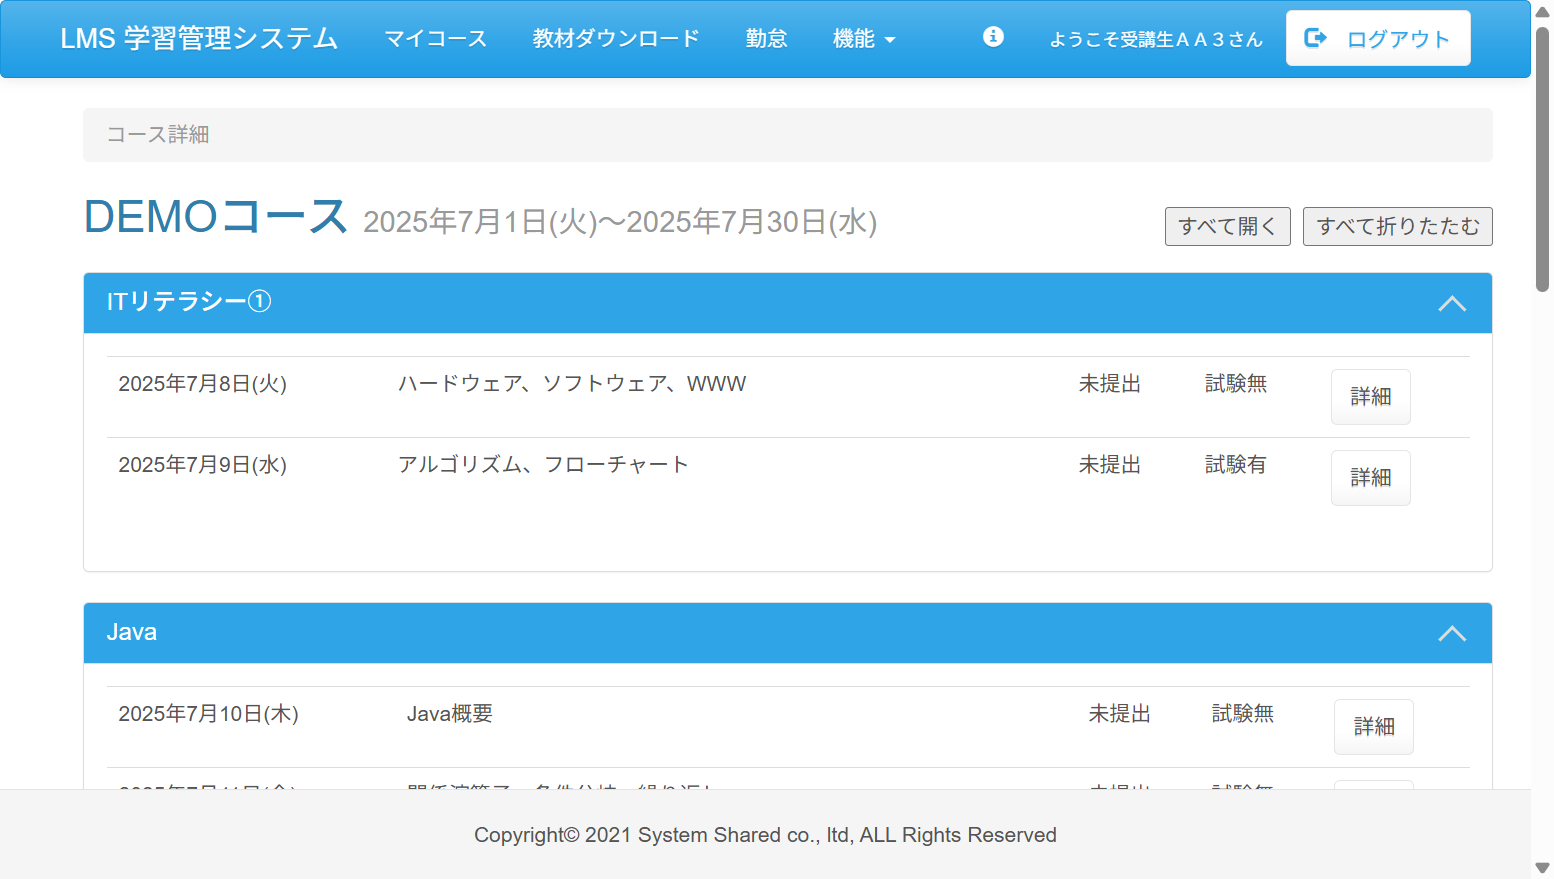
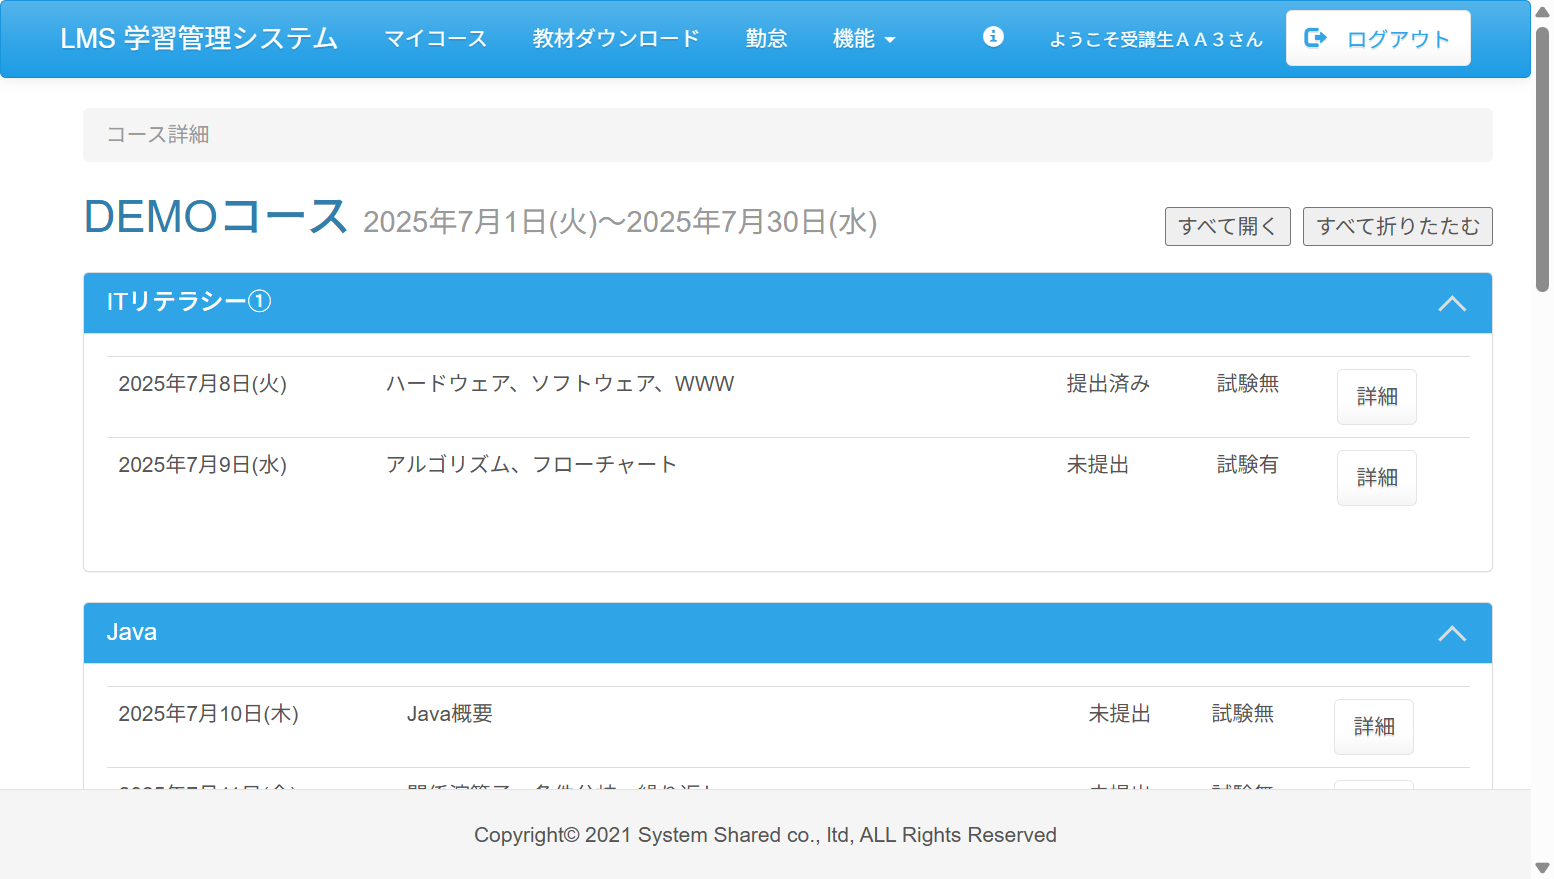
add: Case07.java 報告内容を入力して「提出する」ボタンを押下し確認ボタン名が更新される
WebElementを利用して
class名がform-controlのものにアクセスし、
「本日もありがとうございました。」と入力し、
うまく反映されたかどうか確認するプログラム。
尚、現在エラーが出ており、エラーの箇所はコメント済み。

期待値は以下の通り
value値：提出済み日報【デモ】を確認する
エラー箇所：case07.java 101行目

diff --git a/test_code_creation_name/src/test/java/jp/co/sss/lms/ct/f03_report/Case07.java b/test_code_creation_name/src/test/java/jp/co/sss/lms/ct/f03_report/Case07.java
@@ -9,6 +9,10 @@ import org.junit.jupiter.api.MethodOrderer.OrderAnnotation;
 import org.junit.jupiter.api.Order;
 import org.junit.jupiter.api.Test;
 import org.junit.jupiter.api.TestMethodOrder;
+import org.openqa.selenium.By;
+import org.openqa.selenium.Keys;
+
+import jp.co.sss.lms.ct.util.WebDriverUtils;
 
 /**
  * 結合テスト レポート機能
@@ -35,35 +39,68 @@ public class Case07 {
 	@Order(1)
 	@DisplayName("テスト01 トップページURLでアクセス")
 	void test01() {
-		// TODO ここに追加
+		goTo("http://localhost:8080/lms");
+
+		WebDriverUtils.resultTitle("ログイン | LMS");
+
+		getEvidence(new Object() {
+		});
 	}
 
 	@Test
 	@Order(2)
 	@DisplayName("テスト02 初回ログイン済みの受講生ユーザーでログイン")
-	void test02() {
-		// TODO ここに追加
+	void test02() throws InterruptedException {
+		WebDriverUtils.nameInput("loginId", "StudentAA03");
+		WebDriverUtils.nameInput("password", "StudentAA033");
+		WebDriverUtils.enterKey("btn");
+
+		Thread.sleep(1000);
+
+		WebDriverUtils.resultTitle("コース詳細 | LMS");
+
+		getEvidence(new Object() {
+		});
 	}
 
 	@Test
 	@Order(3)
 	@DisplayName("テスト03 未提出の研修日の「詳細」ボタンを押下しセクション詳細画面に遷移")
-	void test03() {
-		// TODO ここに追加
+	void test03() throws InterruptedException {
+
+		WebDriverUtils.webDriver
+				.findElement(By.xpath("//*[@id=\"main\"]/div/div[5]/div[2]/table/tbody/tr[4]/td[5]/form/input[3]"))
+				.sendKeys(Keys.ENTER);
+
+		Thread.sleep(1000);
+		WebDriverUtils.resultTitle("セクション詳細 | LMS");
+		getEvidence(new Object() {
+		});
 	}
 
 	@Test
 	@Order(4)
 	@DisplayName("テスト04 「提出する」ボタンを押下しレポート登録画面に遷移")
-	void test04() {
-		// TODO ここに追加
+	void test04() throws InterruptedException {
+		WebDriverUtils.enterKeyValue("//input[@value='日報【デモ】を提出する']");
+		Thread.sleep(1000);
+		WebDriverUtils.resultTitle("レポート登録 | LMS");
+		getEvidence(new Object() {
+		});
 	}
 
 	@Test
 	@Order(5)
 	@DisplayName("テスト05 報告内容を入力して「提出する」ボタンを押下し確認ボタン名が更新される")
-	void test05() {
-		// TODO ここに追加
+	void test05() throws InterruptedException {
+		WebDriverUtils.inputClassName("form-control", "本日もありがとうございました。");
+		WebDriverUtils.enterKey("btn-primary");
+		Thread.sleep(1000);
+
+		// 下記のプログラムでエラーが発生
+		//WebDriverUtils.resultValue("btn-default", "提出済み日報【デモ】を確認する");
+		getEvidence(new Object() {
+		});
 	}
 
 }

diff --git a/test_code_creation_name/src/test/java/jp/co/sss/lms/ct/util/WebDriverUtils.java b/test_code_creation_name/src/test/java/jp/co/sss/lms/ct/util/WebDriverUtils.java
@@ -167,7 +167,7 @@ public class WebDriverUtils {
 	 * @param className
 	 */
 	public static void enterKeyValue(String valueName) {
-		final WebElement enterKey = WebDriverUtils.webDriver.findElement(By.xpath("//input[@value='valueName']"));
+		final WebElement enterKey = WebDriverUtils.webDriver.findElement(By.xpath(valueName));
 		enterKey.sendKeys(Keys.ENTER);
 	}
 
@@ -178,7 +178,6 @@ public class WebDriverUtils {
 	 */
 	public static void resultClassName(String className, String result) {
 		final WebElement enterKey = WebDriverUtils.webDriver.findElement(By.className(className));
-		System.out.println(enterKey.getText());
 		assertEquals(result, enterKey.getText());
 	}
 
@@ -188,8 +187,16 @@ public class WebDriverUtils {
 	 */
 	public static void resultTitle(String result) {
 		String title = webDriver.getTitle();
-		System.out.println(title);
 		assertEquals(result, title);
+	}
+
+	/**
+	 * HTMLのタイトルを取得し、結果と合致してるか調べる
+	 * @param result
+	 */
+	public static void resultValue(String className, String result) {
+		String value = WebDriverUtils.webDriver.findElement(By.className(className)).getAttribute("value");
+		assertEquals(result, value);
 	}
 
 	/**
@@ -202,6 +209,27 @@ public class WebDriverUtils {
 		value.clear();
 		value.sendKeys(inputValue);
 		value.sendKeys(Keys.ENTER);
+	}
+
+	/**
+	 * HTMLのclass属性を取得し、入力値に値を入れる
+	 * @param className
+	 * @param inputValue
+	 */
+	public static void inputClassName(String className, String inputValue) {
+		final WebElement value = WebDriverUtils.getElementByClassName(className);
+		value.clear();
+		value.sendKeys(inputValue);
+	}
+
+	/**
+	 * xpathの値を取得し、エンターを押す
+	 * @param xpath
+	 */
+	public static void enterXpath(String xpath) {
+		WebDriverUtils.webDriver
+				.findElement(By.xpath(xpath))
+				.sendKeys(Keys.ENTER);
 	}
 
 }

diff --git a/test_code_creation_name/src/test/java/jp/co/sss/lms/ct/f02_faq/Case05.java b/test_code_creation_name/src/test/java/jp/co/sss/lms/ct/f02_faq/Case05.java
@@ -104,8 +104,6 @@ public class Case05 {
 	void test05() throws InterruptedException {
 		WebDriverUtils.enterClassName("form-control", "申し込み");
 		WebDriverUtils.scrollBy("800");
-
-		System.out.println(WebDriverUtils.getElementsByClassName("text-primary").size());
 		assertEquals(1, WebDriverUtils.getElementsByClassName("text-primary").size());
 
 		getEvidence(new Object() {
@@ -119,10 +117,7 @@ public class Case05 {
 		final WebElement enterKey = WebDriverUtils.webDriver.findElement(By.xpath("//input[@value='クリア']"));
 		enterKey.sendKeys(Keys.ENTER);
 
-		final WebElement result = WebDriverUtils.webDriver.findElement(By.className("form-control"));
-		System.out.println(result.getText());
-		assertEquals("", result.getText());
-
+		WebDriverUtils.resultClassName("form-control", "");
 		WebDriverUtils.scrollBy("0");
 
 		getEvidence(new Object() {

diff --git a/test_code_creation_name/src/test/java/jp/co/sss/lms/ct/f02_faq/Case06.java b/test_code_creation_name/src/test/java/jp/co/sss/lms/ct/f02_faq/Case06.java
@@ -105,7 +105,6 @@ public class Case06 {
 		WebDriverUtils.scrollBy("800");
 		Thread.sleep(1000);
 
-		System.out.println(WebDriverUtils.getElementsByClassName("text-primary").size());
 		assertEquals(3, WebDriverUtils.getElementsByClassName("text-primary").size());
 
 		getEvidence(new Object() {
@@ -117,8 +116,6 @@ public class Case06 {
 	@DisplayName("テスト06 検索結果の質問をクリックしその回答を表示")
 	void test06() {
 		WebDriverUtils.webDriver.findElement(By.className("mb10")).click();
-
-		System.out.println(WebDriverUtils.getElementsByClassName("fs18").size());
 		assertEquals(1, WebDriverUtils.getElementsByClassName("fs18").size());
 
 		getEvidence(new Object() {
